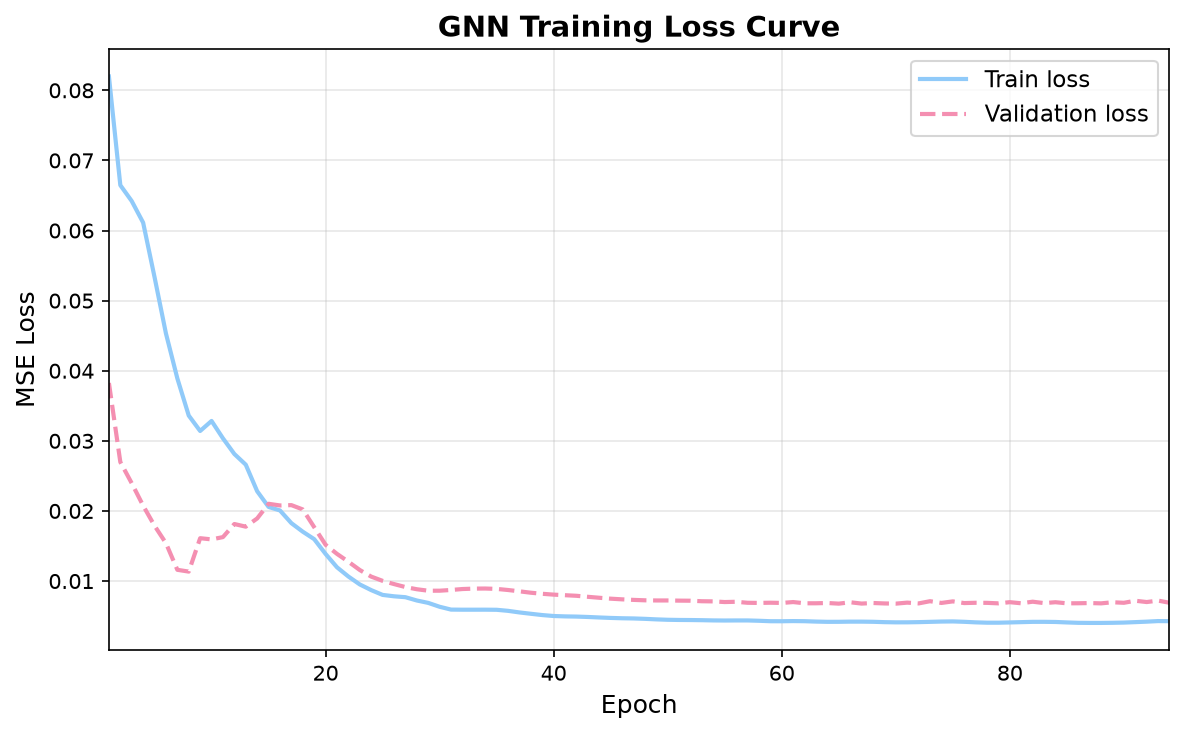
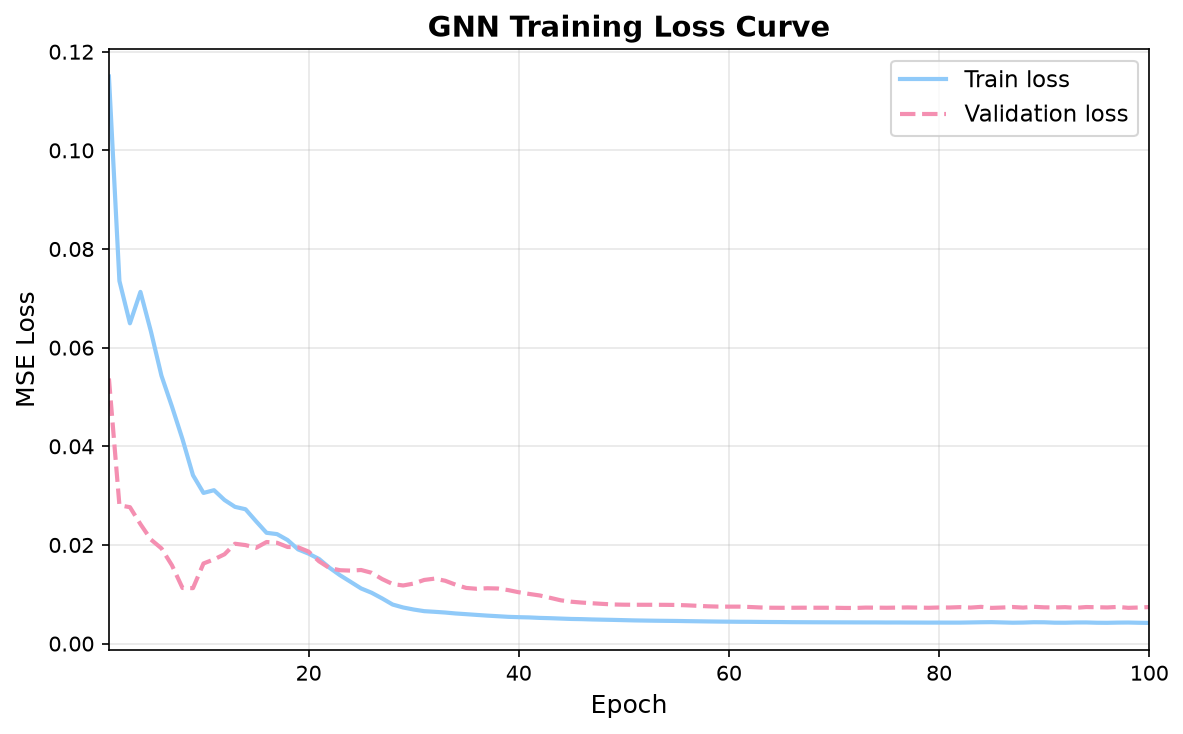
Fix evidence score key mismatch in plot_metrics.py and test_contraindication.py, clean up subgraph_retriever.py

diff --git a/retrieval/subgraph_retriever.py b/retrieval/subgraph_retriever.py
@@ -129,19 +129,11 @@ class SubgraphRetriever:
         candidates = []
         contraindications = []
 
-        candidates = []
-        contraindications = []
-
         for drug, data in drug_data.items():
             data["evidence_sources"] = list(data["evidence_sources"])
 
             # Clamp to [-1, 1], same as train.py does after summing
             data["net_evidence_score"] = max(-1.0, min(1.0, data["net_evidence_score"]))
-
-            # --- DEBUG LINE: paste it here ---
-            if len(data["supporting_genes"]) > 1 or len(data["opposing_genes"]) > 1:
-                print(f"MULTI-GENE CASE: {patient_id} / {drug} — supporting={len(data['supporting_genes'])}, opposing={len(data['opposing_genes'])}, net={data['net_evidence_score']:.4f}")
-            # --- end debug line ---
 
             has_support = len(data["supporting_genes"]) > 0
             has_opposition = len(data["opposing_genes"]) > 0

diff --git a/kg/test_contraindication.py b/kg/test_contraindication.py
@@ -16,10 +16,10 @@ summary = retriever.get_patient_subgraph_summary("TCGA-13-1497")
 print(f"Patient: {summary['patient_id']}")
 print(f"\nCandidates ({summary['num_candidate_drugs']}):")
 for c in summary["candidates"]:
-    print(f"   {c['drug']}: max_score={c['max_evidence_score']}, genes={[g['gene'] for g in c['supporting_genes']]}")
+    print(f"   {c['drug']}: net_score={c['net_evidence_score']}, genes={[g['gene'] for g in c['supporting_genes']]}")
 
 print(f"\nContraindications ({summary['num_contraindications']}):")
 for c in summary["contraindications"]:
-    print(f"   {c['drug']}: min_score={c['min_evidence_score']}, genes={[g['gene'] for g in c['opposing_genes']]}")
+    print(f"   {c['drug']}: net_score={c['net_evidence_score']}, genes={[g['gene'] for g in c['opposing_genes']]}")
 
 retriever.close()

diff --git a/ranking/plot_metrics.py b/ranking/plot_metrics.py
@@ -85,10 +85,10 @@ def get_ground_truth(val_patients, idx_to_patient):
             ev = {}
             for c in summary["candidates"]:
                 # use .get() with fallback to handle varying key names
-                score = c.get("max_evidence_score") or c.get("evidence_score") or 0.3
+                score = c.get("net_evidence_score", 0.3)
                 ev[c["drug"]] = score
             for c in summary.get("contraindications", []):
-                score = c.get("min_evidence_score") or c.get("evidence_score") or -0.3
+                score = c.get("net_evidence_score", -0.3)
                 ev[c["drug"]] = score
             evidence_per_patient[p_idx] = ev
 
